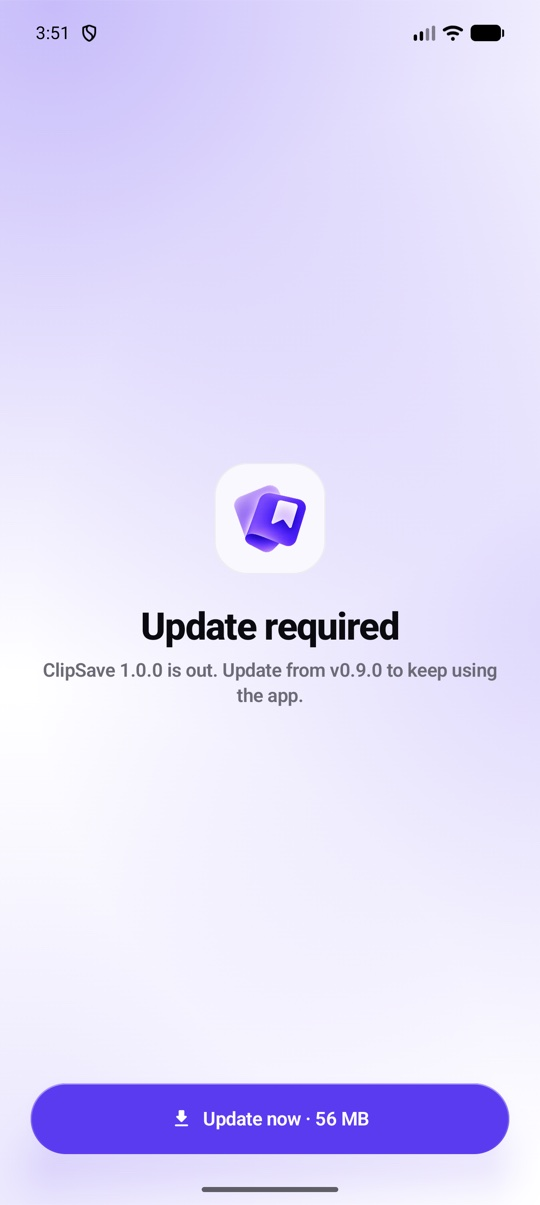
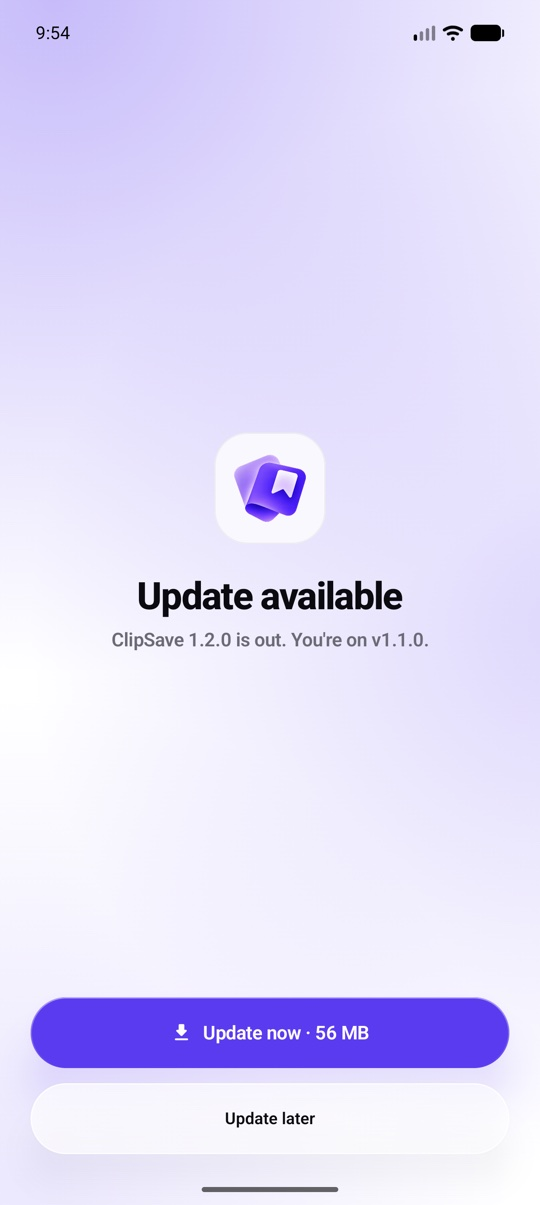
Make app updates optional with an Update later button
A newer GitHub release used to take over the app until it was installed.
The update screen now offers Update now and Update later (Back does the
same). Putting a version off saves it in Prefs, so the start-up check
doesn't offer that version again, though a newer release does. Settings
> Check for updates always offers it.

diff --git a/app/src/main/java/com/sahedul/clipsave/core/AppUpdater.kt b/app/src/main/java/com/sahedul/clipsave/core/AppUpdater.kt
@@ -30,7 +30,10 @@ sealed interface UpdateState {
     /** Couldn't reach GitHub; the app stays usable. */
     data class CheckFailed(val message: String) : UpdateState
 
-    /** Everything below means a newer release exists, and the update screen is shown until it's installed. */
+    /** A newer release the user put off with "Update later"; the app carries on as normal. */
+    data class Postponed(val release: Release) : UpdateState
+
+    /** Everything below means a newer release is on offer and the update screen is showing. */
     sealed interface Pending : UpdateState { val release: Release }
     data class Available(override val release: Release, val error: String? = null) : Pending
     data class Downloading(override val release: Release, val progress: Float) : Pending
@@ -44,7 +47,7 @@ data class Release(val version: String, val asset: GithubRelease.Asset)
  * universal one); we download the same kind that's installed, so a phone on the 60 MB arm64 build
  * never pulls the 200 MB universal one. Android only accepts it if it's signed with the same key.
  */
-class AppUpdater(private val app: Application, private val scope: CoroutineScope) {
+class AppUpdater(private val app: Application, private val scope: CoroutineScope, private val prefs: Prefs) {
     private val _state = MutableStateFlow<UpdateState>(UpdateState.Idle)
     val state: StateFlow<UpdateState> = _state
     private val busy = Mutex()
@@ -60,8 +63,11 @@ class AppUpdater(private val app: Application, private val scope: CoroutineScope
         }.getOrDefault(AppRelease.UNIVERSAL)
     }
 
-    /** Looks for a newer release. Ignored while a check, download or install is already underway. */
-    fun check() {
+    /**
+     * Looks for a newer release. Ignored while a check, download or install is already underway.
+     * A [manual] check (Settings) offers a version even if the user put it off before.
+     */
+    fun check(manual: Boolean = false) {
         if (_state.value is UpdateState.Downloading || _state.value is UpdateState.Installing) return
         if (!busy.tryLock()) return
         val before = _state.value
@@ -75,16 +81,25 @@ class AppUpdater(private val app: Application, private val scope: CoroutineScope
                     asset == null -> UpdateState.CheckFailed("No $installedVariant APK in ${latest.tag}")
                     // Keep any error message from a cancelled install of the same version.
                     before is UpdateState.Available && before.release.version == latest.version -> before
+                    !AppRelease.shouldPrompt(latest.version, prefs.dismissedUpdate, manual) ->
+                        UpdateState.Postponed(Release(latest.version, asset))
                     else -> UpdateState.Available(Release(latest.version, asset))
                 }
             } catch (e: Throwable) {
                 Log.w(TAG, "Update check failed", e)
-                // A pending update stays pending: being offline must not let the user skip it.
+                // Going offline doesn't take away an update screen that's already showing.
                 if (before !is UpdateState.Pending) _state.value = UpdateState.CheckFailed(e.message ?: "Network error")
             } finally {
                 busy.unlock()
             }
         }
+    }
+
+    /** "Update later": closes the update screen, and the start-up check stops offering this version. */
+    fun postpone() {
+        val pending = _state.value as? UpdateState.Available ?: return
+        prefs.dismissedUpdate = pending.release.version
+        _state.value = UpdateState.Postponed(pending.release)
     }
 
     /** Downloads the pending release's APK (reusing a finished download) and hands it to the system installer. */

diff --git a/app/src/main/java/com/sahedul/clipsave/ui/UpdateScreen.kt b/app/src/main/java/com/sahedul/clipsave/ui/UpdateScreen.kt
@@ -1,5 +1,6 @@
 package com.sahedul.clipsave.ui
 
+import androidx.activity.compose.BackHandler
 import androidx.compose.foundation.layout.Arrangement
 import androidx.compose.foundation.layout.Box
 import androidx.compose.foundation.layout.Column
@@ -26,14 +27,16 @@ import com.sahedul.clipsave.BuildConfig
 import com.sahedul.clipsave.core.UpdateState
 import com.sahedul.clipsave.ui.theme.AppMark
 import com.sahedul.clipsave.ui.theme.ClipType
+import com.sahedul.clipsave.ui.theme.GlassButton
 import com.sahedul.clipsave.ui.theme.LocalClipColors
 import com.sahedul.clipsave.ui.theme.PrimaryButton
 import com.sahedul.clipsave.ui.theme.clipBackground
 
-/** Blocks the app until the pending release is installed. There's deliberately no "later". */
+/** Offers the pending release: update now, or put it off and keep using the app (Back does the same). */
 @Composable
-fun UpdateScreen(state: UpdateState.Pending, onUpdate: () -> Unit) {
+fun UpdateScreen(state: UpdateState.Pending, onUpdate: () -> Unit, onLater: () -> Unit) {
     val c = LocalClipColors.current
+    BackHandler(enabled = state is UpdateState.Available, onBack = onLater)
     val sizeMb = state.release.asset.size / (1024 * 1024)
     Box(Modifier.fillMaxSize().clipBackground()) {
         Column(
@@ -47,10 +50,10 @@ fun UpdateScreen(state: UpdateState.Pending, onUpdate: () -> Unit) {
             ) {
                 AppMark(size = 88.dp)
                 Spacer(Modifier.height(24.dp))
-                Text("Update required", style = ClipType.Title, color = c.ink, textAlign = TextAlign.Center)
+                Text("Update available", style = ClipType.Title, color = c.ink, textAlign = TextAlign.Center)
                 Spacer(Modifier.height(8.dp))
                 Text(
-                    "ClipSave ${state.release.version} is out. Update from v${BuildConfig.VERSION_NAME} to keep using the app.",
+                    "ClipSave ${state.release.version} is out. You're on v${BuildConfig.VERSION_NAME}.",
                     style = ClipType.BodyStrong,
                     color = c.inkMuted,
                     textAlign = TextAlign.Center,
@@ -85,6 +88,13 @@ fun UpdateScreen(state: UpdateState.Pending, onUpdate: () -> Unit) {
                         onClick = onUpdate,
                         icon = Icons.Rounded.Download,
                         modifier = Modifier.fillMaxWidth(),
+                    )
+                    Spacer(Modifier.height(12.dp))
+                    GlassButton(
+                        text = "Update later",
+                        onClick = onLater,
+                        modifier = Modifier.fillMaxWidth(),
+                        height = 56.dp,
                     )
                 }
             }

diff --git a/app/src/test/java/com/sahedul/clipsave/core/AppReleaseTest.kt b/app/src/test/java/com/sahedul/clipsave/core/AppReleaseTest.kt
@@ -59,4 +59,21 @@ class AppReleaseTest {
         assertEquals("ClipSave-1.2.0-universal.apk", AppRelease.assetFor(release("universal"), "x86_64")?.name)
         assertNull(AppRelease.assetFor(release("arm64-v8a"), "x86_64"))
     }
+
+    @Test fun `start-up check prompts until a version is put off`() {
+        assertTrue(AppRelease.shouldPrompt("1.3.0", dismissed = null, manual = false))
+        assertFalse(AppRelease.shouldPrompt("1.3.0", dismissed = "1.3.0", manual = false))
+        assertFalse(AppRelease.shouldPrompt("v1.3.0", dismissed = "1.3.0", manual = false))
+    }
+
+    @Test fun `start-up check prompts again for a different release`() {
+        assertTrue(AppRelease.shouldPrompt("1.4.0", dismissed = "1.3.0", manual = false))
+        assertTrue(AppRelease.shouldPrompt("1.3.1", dismissed = "1.3.0", manual = false))
+        assertTrue(AppRelease.shouldPrompt("1.3.0", dismissed = "1.3.0-beta", manual = false))
+    }
+
+    @Test fun `manual check always prompts`() {
+        assertTrue(AppRelease.shouldPrompt("1.3.0", dismissed = "1.3.0", manual = true))
+        assertTrue(AppRelease.shouldPrompt("1.3.0", dismissed = null, manual = true))
+    }
 }

diff --git a/app/src/main/java/com/sahedul/clipsave/ui/SettingsScreen.kt b/app/src/main/java/com/sahedul/clipsave/ui/SettingsScreen.kt
@@ -243,13 +243,14 @@ fun SettingsScreen(container: AppContainer, insets: PaddingValues, onOpenPage: (
                         checking -> "Checking…"
                         appUpdate is UpdateState.CheckFailed -> "Retry"
                         appUpdate is UpdateState.UpToDate -> "Up to date"
+                        appUpdate is UpdateState.Postponed -> "Update"
                         else -> "Check"
                     },
                     enabled = !checking,
                     onClick = {
-                        // A newer app release takes over the screen (MainActivity); otherwise this also
-                        // refreshes yt-dlp so site extractors stay current.
-                        container.updater.check()
+                        // A newer app release opens the update screen (MainActivity), even one put off
+                        // before; this also refreshes yt-dlp so site extractors stay current.
+                        container.updater.check(manual = true)
                         if (engine is EngineState.Ready) {
                             engineUpdating = true
                             scope.launch {

diff --git a/app/src/main/java/com/sahedul/clipsave/ui/MainActivity.kt b/app/src/main/java/com/sahedul/clipsave/ui/MainActivity.kt
@@ -58,7 +58,7 @@ class MainActivity : ComponentActivity() {
                 val update by container.updater.state.collectAsStateWithLifecycle()
 
                 (update as? UpdateState.Pending)?.let {
-                    UpdateScreen(it, onUpdate = container.updater::install)
+                    UpdateScreen(it, onUpdate = container.updater::install, onLater = container.updater::postpone)
                     return@ClipSaveTheme
                 }
 
@@ -121,7 +121,7 @@ class MainActivity : ComponentActivity() {
 
     override fun onStart() {
         super.onStart()
-        // Every time the app comes to the front; a newer release takes over the screen until installed.
+        // Every time the app comes to the front; a newer release is offered unless the user put that version off.
         // Debug builds are signed with the debug key and can't install a release over themselves.
         if (!BuildConfig.DEBUG) (application as ClipSaveApp).container.updater.check()
     }

diff --git a/app/src/main/java/com/sahedul/clipsave/core/AppRelease.kt b/app/src/main/java/com/sahedul/clipsave/core/AppRelease.kt
@@ -41,6 +41,13 @@ object AppRelease {
     /** True when [latest] is a newer version than [current] (semver; a pre-release sorts before its release). */
     fun isNewer(latest: String, current: String): Boolean = compare(latest, current) > 0
 
+    /**
+     * Whether a check that found [latest] should show the update screen. A manual check always does;
+     * the start-up check skips the one version the user put off with "Update later" ([dismissed]).
+     */
+    fun shouldPrompt(latest: String, dismissed: String?, manual: Boolean): Boolean =
+        manual || dismissed == null || compare(latest, dismissed) != 0
+
     fun compare(a: String, b: String): Int {
         val (coreA, preA) = split(a)
         val (coreB, preB) = split(b)

diff --git a/app/src/main/java/com/sahedul/clipsave/core/Prefs.kt b/app/src/main/java/com/sahedul/clipsave/core/Prefs.kt
@@ -46,6 +46,11 @@ class Prefs(context: Context) {
         get() = sp.getLong("last_update", 0L)
         set(v) = sp.edit { putLong("last_update", v) }
 
+    /** App release the user put off with "Update later"; the start-up check won't offer it again. */
+    var dismissedUpdate: String?
+        get() = sp.getString("dismissed_update", null)
+        set(v) = sp.edit { if (v == null) remove("dismissed_update") else putString("dismissed_update", v) }
+
     companion object {
         const val THEME_LIGHT = "light"
         const val THEME_DARK = "dark"

diff --git a/app/src/main/java/com/sahedul/clipsave/AppContainer.kt b/app/src/main/java/com/sahedul/clipsave/AppContainer.kt
@@ -22,5 +22,5 @@ class AppContainer(app: Application) {
     val extractor = Extractor(engine, cookies, File(app.cacheDir, "yt-dlp"))
     val downloads = DownloadRepository(app)
     val scheduler = DownloadScheduler(app, downloads, prefs)
-    val updater = AppUpdater(app, scope)
+    val updater = AppUpdater(app, scope, prefs)
 }

diff --git a/README.md b/README.md
@@ -43,7 +43,7 @@ for audio), or to a folder you choose. Powered by [yt-dlp](https://github.com/yt
   </tr>
   <tr>
     <td align="center"><img src="docs/screens/welcome.jpg" width="200" alt="First-launch welcome screen"><br><sub>Welcome</sub></td>
-    <td align="center"><img src="docs/screens/update.jpg" width="200" alt="Update required screen with download button"><br><sub>In-app update</sub></td>
+    <td align="center"><img src="docs/screens/update.jpg" width="200" alt="Update available screen with Update now and Update later buttons"><br><sub>In-app update</sub></td>
     <td align="center"><img src="docs/screens/home-dark.jpg" width="200" alt="Home screen in dark theme"><br><sub>Dark theme</sub></td>
     <td align="center"><img src="docs/screens/downloads-dark.jpg" width="200" alt="Downloads tab in dark theme"><br><sub>Dark theme</sub></td>
   </tr>
@@ -65,7 +65,8 @@ for audio), or to a folder you choose. Powered by [yt-dlp](https://github.com/yt
 * **Background downloads** — foreground service with a progress notification; tap it to open Downloads, where
   you pause or cancel. Survives leaving the app.
 * **In-app updates** — checks GitHub Releases each time the app opens (or **Settings → Check for updates**) and
-  installs the same APK variant you have (arm64-v8a, armeabi-v7a, x86_64 or universal).
+  installs the same APK variant you have (arm64-v8a, armeabi-v7a, x86_64 or universal). **Update later** puts a
+  version off until the next release.
 * **Pause / resume** — per download, per playlist, or **Pause all / Resume all**; partial files are kept, so
   resuming continues where it stopped. Failed or canceled items can be retried.
 * **Your folder** — save to the default folder or pick any folder with the system picker; no storage permission.

diff --git a/CHANGELOG.md b/CHANGELOG.md
@@ -7,6 +7,9 @@ All notable changes to ClipSave are documented here. The format follows
 ## [Unreleased]
 
 ### Changed
+- App updates are optional: the update screen now has **Update later** next to **Update now**, and Back does the
+  same. A version you put off isn't offered again when the app opens (a newer release is), while **Settings →
+  Check for updates** always offers it.
 - Sharing a single video shows its thumbnail, title and channel within moments (YouTube, Vimeo, TikTok,
   Dailymotion) while the qualities are still being read, instead of a bare spinner.
 - Reading a YouTube video's qualities skips the HLS manifest, one fewer request and about 20% faster.
